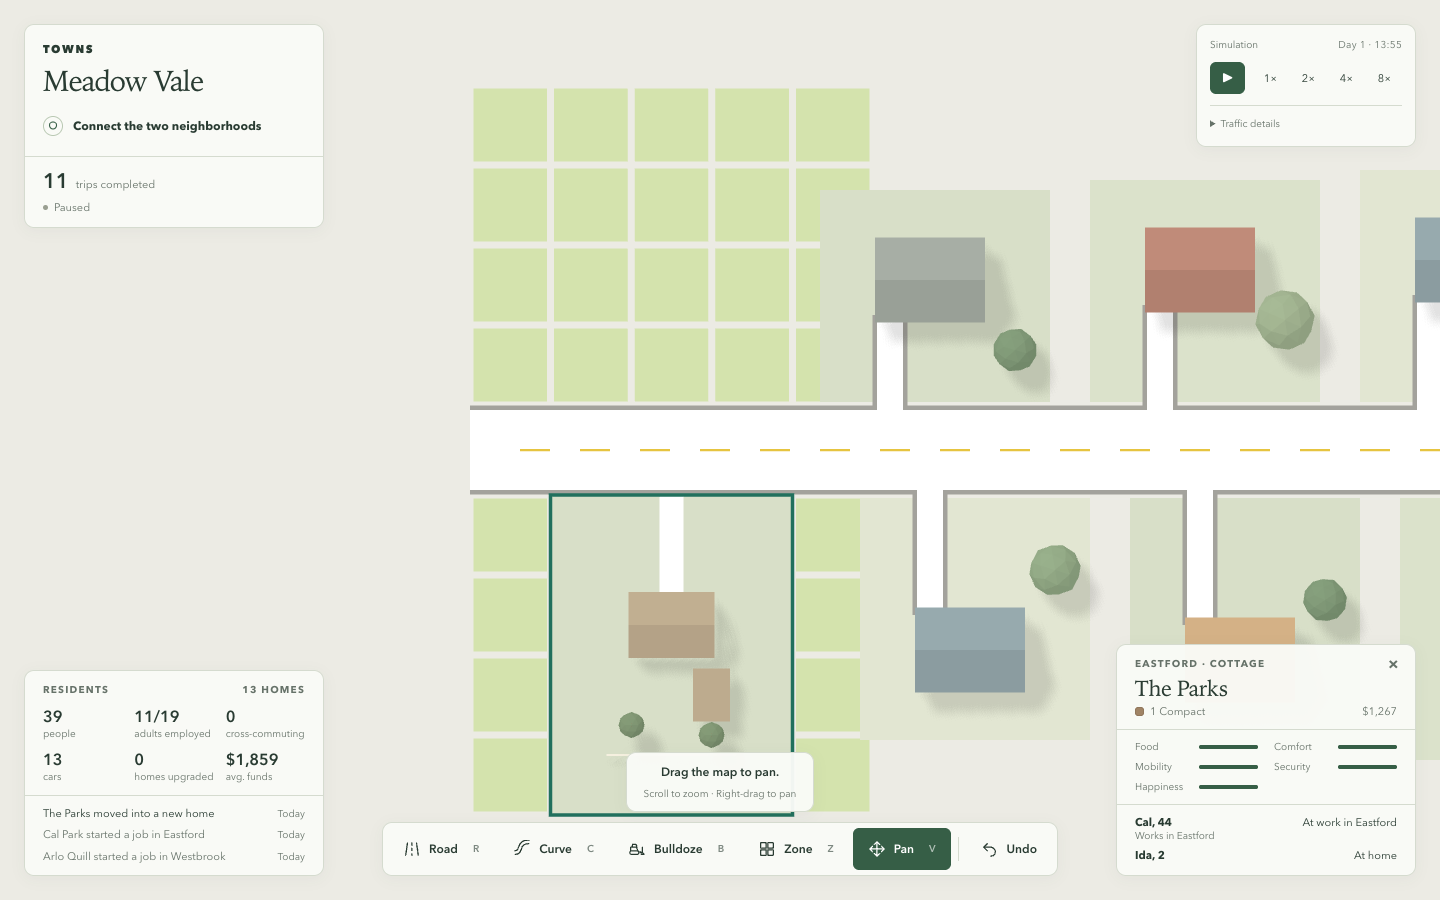
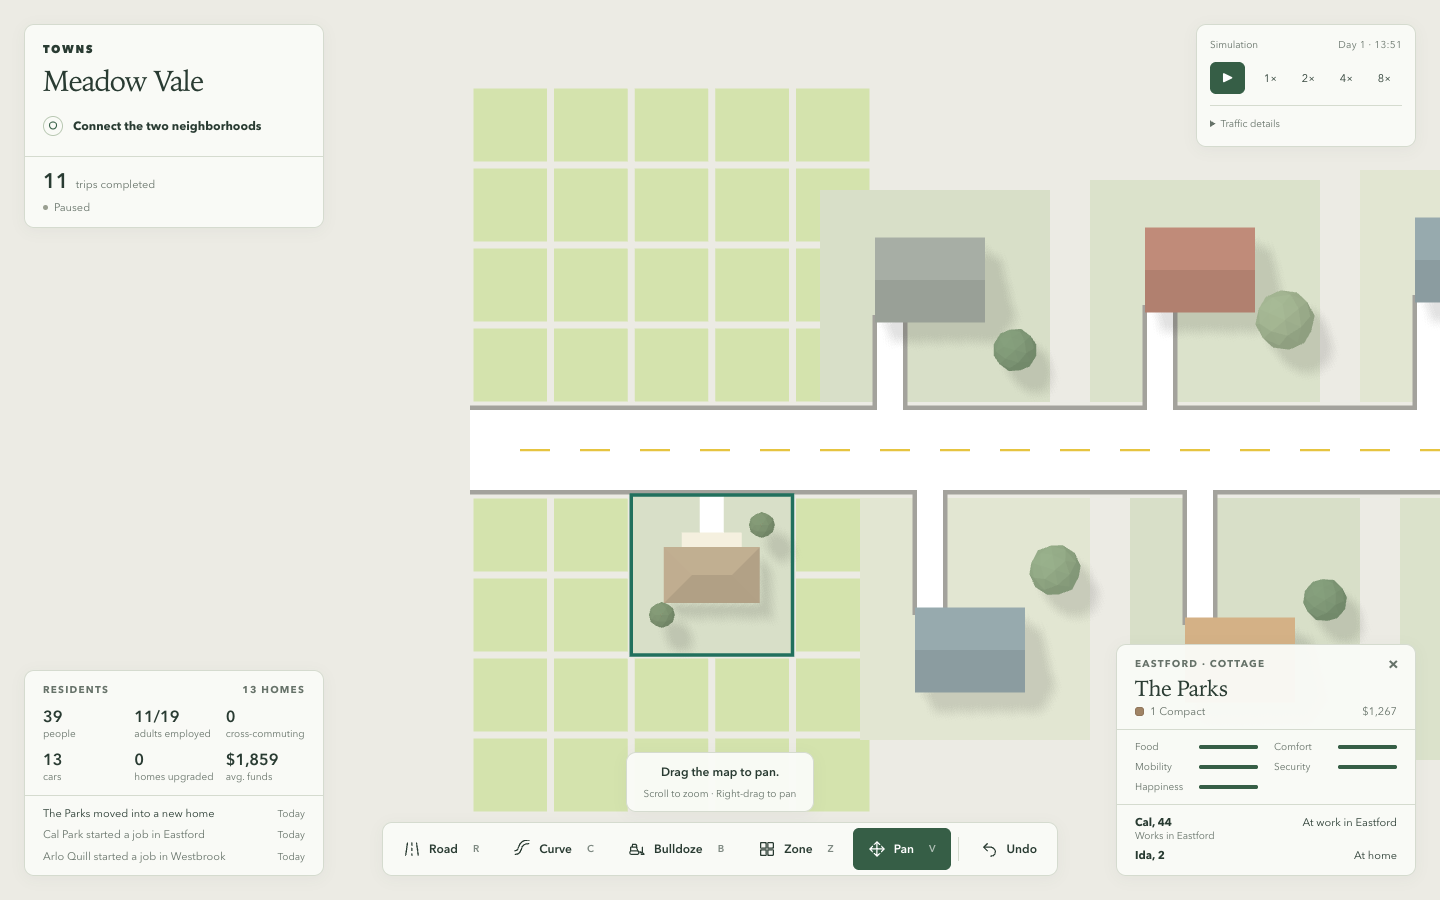
Fit new residential homes to compact street-front parcels

Changed region(s): [[0.375, 0.5289, 0.5625, 0.9333]]

diff --git a/src/sim/zoning/lots.ts b/src/sim/zoning/lots.ts
@@ -18,8 +18,8 @@ export interface Lot extends LotSize {
   designs: BuildingPick[];
 }
 
-const sizes = [...new Map(BLUEPRINTS.map(b => [b.lot.columns * 10 + b.lot.rows, b.lot])).values()]
-  .sort((a, b) => b.columns * b.rows - a.columns * a.rows || b.columns - a.columns);
+const COTTAGE = { columns: 1, rows: 1 } as const;
+const DETACHED = { columns: 2, rows: 2 } as const;
 
 function footprint(key: CellKey, size: LotSize): CellKey[] {
   const keys: CellKey[] = [];
@@ -46,15 +46,18 @@ function parcelGeometry(corners: Float64Array, indices: Map<CellKey, number>, ke
   const mid = (edge: Vec2[]) => scale(add(edge[Math.floor(size.columns / 2)]!, edge[Math.ceil(size.columns / 2)]!), 0.5);
   const kerb = mid(front);
   const back = mid(rear);
-  const centre = scale(add(kerb, back), 0.5);
-  const street = add(kerb, scale(normalize(sub(kerb, back)), ZONE_KERB));
+  const towardStreet = normalize(sub(kerb, back));
+  const middle = scale(add(kerb, back), 0.5);
+  // The larger designs have enough garden in front to move one metre closer to the kerb.
+  const centre = size.rows === 2 ? add(middle, towardStreet) : middle;
+  const street = add(kerb, scale(towardStreet, ZONE_KERB));
   const tangent = sub(front.at(-1)!, front[0]!);
   return { ...centre, angle: Math.atan2(tangent.y, tangent.x), streetX: street.x, streetY: street.y,
     corners: [...front, ...rear.reverse()] };
 }
 
-/** Keep occupied parcels while all their cells survive. New parcels pack within three-column
- * blocks, so changing an end column cannot shift the partition down an entire street. */
+/** Keep occupied parcels while all their cells survive. Each four columns allow one
+ * detached house and two cottages. Stagger the wider lots on opposite sides of the street. */
 export function residentialLots(scenario: Scenario, zoning: Zoning, occupied: Lot[] = []): Lot[] {
   const cells = scenario.zones;
   if (!cells) return [];
@@ -80,8 +83,8 @@ export function residentialLots(scenario: Scenario, zoning: Zoning, occupied: Lo
   for (const key of available.keys()) {
     const { road, column, row, side } = decodeCellKey(key);
     if (row !== 0) continue;
-    const size = sizes.find(s => column % 3 + s.columns <= 3 && footprint(key, s).every(k => available.has(k)));
-    if (!size) continue;
+    const detached = (column + side * 2) % 4 === 0 && footprint(key, DETACHED).every(k => available.has(k));
+    const size = detached ? DETACHED : COTTAGE;
     const geometry = parcelGeometry(cells.corners, available, key, size);
     if (!accessPoints(scenario.network, { x: geometry.streetX, y: geometry.streetY }).length) continue;
     const neighbours = lots.filter(l => {
@@ -91,7 +94,8 @@ export function residentialLots(scenario: Scenario, zoning: Zoning, occupied: Lo
     }).map(l => l.designs[0]!);
     const designs = [pickBuilding(String(key), 'cheap', size, neighbours)];
     for (const tier of ['mid', 'expensive'] as const) {
-      const next = BLUEPRINTS.find(b => b.id === designs.at(-1)!.blueprint.upgradesTo);
+      const next = BLUEPRINTS.find(b => b.id === designs.at(-1)!.blueprint.upgradesTo
+        && b.lot.columns === size.columns && b.lot.rows === size.rows);
       designs.push(next ? finishBuilding(String(key), next) : pickBuilding(String(key), tier, size));
     }
     reserve({ ...size, ...geometry, key, designs });

diff --git a/tests/sim/growth.test.ts b/tests/sim/growth.test.ts
@@ -1,9 +1,8 @@
 import { expect, it } from 'vitest';
-import { BLUEPRINTS } from '../../src/buildings/catalogue';
 import { accessPoints, meadowScenario, planMeadowRoad } from '../../src/sim/scenarios/meadow';
 import { VEHICLE_LENGTH } from '../../src/sim/traffic/idm';
 import { DT, World } from '../../src/sim/world';
-import { decodeCellKey, type CellKey } from '../../src/sim/zoning/cells';
+import { decodeCellKey, ZONE_KERB, type CellKey } from '../../src/sim/zoning/cells';
 import { residentialLots } from '../../src/sim/zoning/lots';
 
 const scenario = meadowScenario();
@@ -24,14 +23,19 @@ it('packs live street-front cells once, in key order, within blueprint dimension
   const used = new Set<number>();
   for (const lot of parcels) {
     expect(decodeCellKey(lot.key).row).toBe(0);
-    expect(BLUEPRINTS.some(b => b.lot.columns === lot.columns && b.lot.rows === lot.rows)).toBe(true);
+    expect(lot.rows).toBe(lot.columns);
+    expect([1, 2]).toContain(lot.rows);
+    for (const design of lot.designs) expect(design.blueprint.lot).toEqual({ columns: lot.columns, rows: lot.rows });
+    const setback = Math.hypot(lot.streetX - lot.x, lot.streetY - lot.y) - ZONE_KERB;
+    expect(setback).toBeCloseTo(lot.rows === 1 ? 4 : 7);
     for (let c = 0; c < lot.columns; c++) for (let r = 0; r < lot.rows; r++) {
       const k = (lot.key + c * 8 + r) as CellKey;
       expect(paint.has(k) && !used.has(k)).toBe(true);
       used.add(k);
     }
   }
-  expect(parcels.some(l => l.rows === 4 && l.columns === 3)).toBe(true);
+  expect(new Set(parcels.map(lot => lot.columns))).toEqual(new Set([1, 2]));
+  expect(parcels.length).toBeGreaterThan(12); // Full starter frontage held 12 parcels under the old rule.
   const smaller = new Map(paint);
   smaller.delete(parcels[0]!.key);
   const after = residentialLots(scenario, smaller);
@@ -64,6 +68,8 @@ it('grows four homes per day, commutes and upgrades deterministically', () => {
   }
   expect(sawDeparture).toBe(true);
   expect(minGap).toBeGreaterThanOrEqual(VEHICLE_LENGTH - 0.01);
+  // With more adults competing for the same off-map jobs, allow time to save for an upgrade.
+  step(world, 12 * day);
   const grown = world.townView()!.households.filter(h => h.lot);
   expect(grown.some(h => h.wages > 0)).toBe(true);
   const upgraded = grown.find(h => h.level === 2)!;
@@ -72,7 +78,7 @@ it('grows four homes per day, commutes and upgrades deterministically', () => {
   expect(upgraded.lot!.design).toBe(starter.blueprint.upgradesTo);
   expect(world.stats().lost).toBe(0);
   const replay = paintedWorld();
-  step(replay, 10 * day);
+  step(replay, 22 * day);
   expect(world.hash()).toBe(replay.hash());
   expect(world.townView()).toEqual(replay.townView());
 });
@@ -100,7 +106,7 @@ it('clears a demolished family and its moving car while preserving its neighbour
 
 it('a road over a parcel removes the home and undo leaves room to grow again', () => {
   const world = paintedWorld();
-  step(world, 4 * day);
+  step(world, Math.ceil(parcels.length / 4) * day);
   const plan = planMeadowRoad([], {x: -65,y: 62}, {x: -65,y: -8});
   if (!plan.ok) throw new Error(plan.reason);
   const result = world.editNetwork(meadowScenario([plan.road]));

diff --git a/tests/e2e/smoke.spec.ts b/tests/e2e/smoke.spec.ts
@@ -107,3 +107,36 @@ test('painted residential frontage grows into a lived-in street', async ({ page 
   await page.screenshot({path: 'artifacts/screens/growth-day-four.png'});
   expect(errors).toEqual([]);
 });
+
+test('a fully grown painted street in Meadow Vale', async ({ page }) => {
+  test.setTimeout(160_000);
+  await page.goto('/?scenario=meadow&seed=1&speed=0&x=20&y=8&mpp=0.15');
+  const editor = () => page.evaluate(() => window.__towns?.editor());
+  await expect.poll(editor).toMatchObject({ tool: 'road', pending: false });
+  const box = (await page.locator('#map').boundingBox())!;
+  const at = (x: number, y: number) => [
+    box.x + box.width / 2 + (x - 20) / 0.15,
+    box.y + box.height / 2 - (y - 8) / 0.15,
+  ] as const;
+  const drag = async (x: number, y: number, end: number) => {
+    await page.mouse.move(...at(x, y));
+    await page.mouse.down();
+    await page.mouse.move(...at(end, y), { steps: 16 });
+    await page.mouse.up();
+  };
+  await drag(45, 8, -35);
+  await expect.poll(editor).toMatchObject({ roadCount: 1, pending: false });
+  await page.keyboard.press('z');
+  for (const y of [-8, 24]) {
+    await drag(-34, y, 76);
+    await expect.poll(editor).toMatchObject({ pending: false });
+  }
+  await page.getByRole('button', { name: 'Pan' }).click();
+  await page.mouse.move(0, 0);
+  await page.evaluate(() => window.__towns!.setSpeed(120));
+  // Each end of the extension and the four adjoining starter-road columns are painted.
+  await expect.poll(() => page.evaluate(() => window.__towns!.town()!.households.filter(h => h.lot).length),
+    { timeout: 140_000 }).toBe(21);
+  await page.evaluate(() => window.__towns!.setSpeed(0));
+  await page.screenshot({ path: 'artifacts/screens/growth-full-street.png' });
+});

diff --git a/src/buildings/catalogue.ts b/src/buildings/catalogue.ts
@@ -44,7 +44,7 @@ export const BLUEPRINTS: readonly Blueprint[] = [
   design('cedar', 'Cedar house', 'mid', 2, 2, [block(0, 1, 9, 6, hip(), 4), wing(-3, -3, 3, 4, hip('y')), garage(5, 1, 3, 5), tree(-5, 5)], 'laurel'),
   design('rowan', 'Rowan cross gable', 'mid', 2, 2, [block(0, 1, 10, 5, gable(), 4), wing(0, -2, 4, 6, gable('y')), garage(-4, -3, 3, 4), tree(5, 5)], 'olive'),
   design('hazel', 'Hazel modern', 'mid', 2, 2, [block(-2, 1, 6, 8, flat, 5), wing(3, 3, 5, 4, flat), garage(3, -2), porch(-2, -4, 6), tree(5, 6)], 'olive', modern),
-  design('willow', 'Willow garden house', 'mid', 2, 3, [block(-1, -3, 8, 7, hip(), 4.5), wing(3, 2, 4, 6, gable('y')), garage(-4, 3), tree(-4, 8), tree(4, 8)], 'laurel'),
+  design('willow', 'Willow garden house', 'mid', 2, 3, [block(-1, -3, 8, 7, hip(), 4.5), wing(3, 2, 4, 6, gable('y')), garage(-4, 3), tree(-4, 8), tree(4, 8)]),
   design('jewel', 'Jewel villa', 'expensive', 1, 1, [block(0, 0.7, 5.3, 4, hip(), 5.5), porch(0, -2, 5.5), hedge(0, 3.3, 6, 0.5), tree(-2.8, -2.7, 0.6)]),
   design('pavilion', 'Pocket pavilion', 'expensive', 1, 1, [block(-1, 0, 3.3, 5.3, hip('y'), 5), wing(1.7, 1.3, 2, 2.6, flat), pool(1.9, -1.4, 1.3, 2.3)]),
   design('terrace', 'Terrace villa', 'expensive', 1, 1, [block(0, 1.5, 5.6, 2.6, flat, 5.5), wing(-1.9, -0.8, 1.8, 3.5, flat), pool(1.3, -1, 2, 2.8), hedge(0, -3.4, 6, 0.4)]),

diff --git a/tests/render/buildings.test.ts b/tests/render/buildings.test.ts
@@ -33,11 +33,14 @@ test('each lot fits a repeatable design even between two different neighbours', 
 test('upgrades fit the same parcel and each preview stays inside the authored lot', () => {
   expect(new Set(BLUEPRINTS.map(b => b.id)).size).toBe(BLUEPRINTS.length);
   for (const blueprint of BLUEPRINTS) {
-    if (blueprint.tier !== 'expensive') {
+    const nextTier = tiers[tiers.indexOf(blueprint.tier) + 1];
+    const hasUpgrade = BLUEPRINTS.some(b => b.tier === nextTier
+      && b.lot.columns === blueprint.lot.columns && b.lot.rows === blueprint.lot.rows);
+    expect(Boolean(blueprint.upgradesTo)).toBe(hasUpgrade);
+    if (blueprint.upgradesTo) {
       const next = BLUEPRINTS.find(b => b.id === blueprint.upgradesTo);
-      expect(next?.tier).toBe(tiers[tiers.indexOf(blueprint.tier) + 1]);
-      expect(next!.lot.columns).toBeLessThanOrEqual(blueprint.lot.columns);
-      expect(next!.lot.rows).toBeLessThanOrEqual(blueprint.lot.rows);
+      expect(next?.tier).toBe(nextTier);
+      expect(next!.lot).toEqual(blueprint.lot);
     }
     for (const finish of catalogueVariants(blueprint)) {
       const geometry = buildingGeometry(blueprint, finish);
